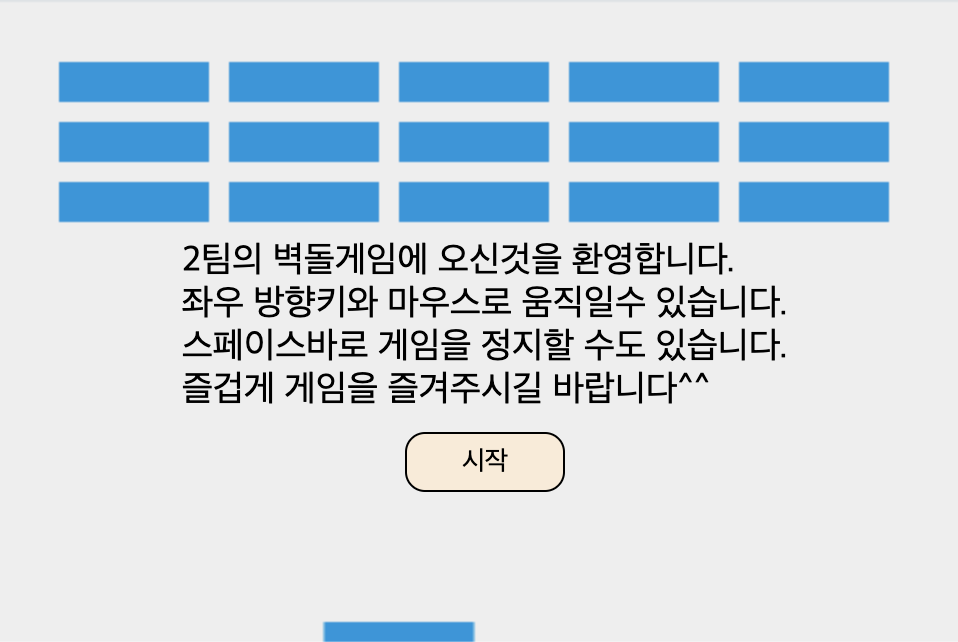
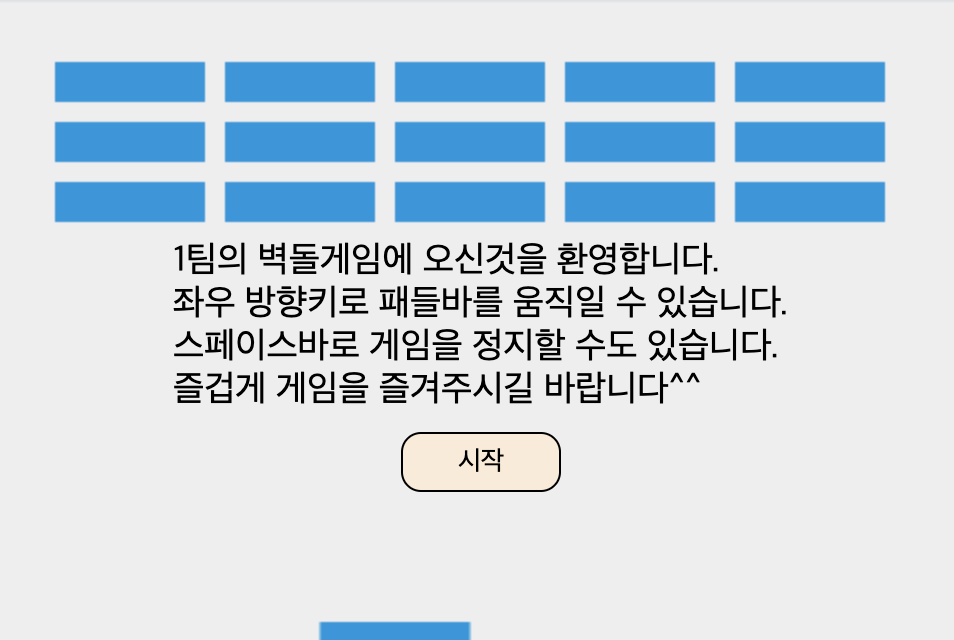
html, readme 수정

diff --git a/index.html b/index.html
@@ -14,8 +14,8 @@
 
       <div class="wrap">
         <div class="dsc">
-          <p>2팀의 벽돌게임에 오신것을 환영합니다.</p>
-          <p>좌우 방향키와 패들바를 움직일 수 있습니다.</p>
+          <p>1팀의 벽돌게임에 오신것을 환영합니다.</p>
+          <p>좌우 방향키로 패들바를 움직일 수 있습니다.</p>
           <p>스페이스바로 게임을 정지할 수도 있습니다.</p>
           <p>즐겁게 게임을 즐겨주시길 바랍니다^^</p>
           <p></p>
